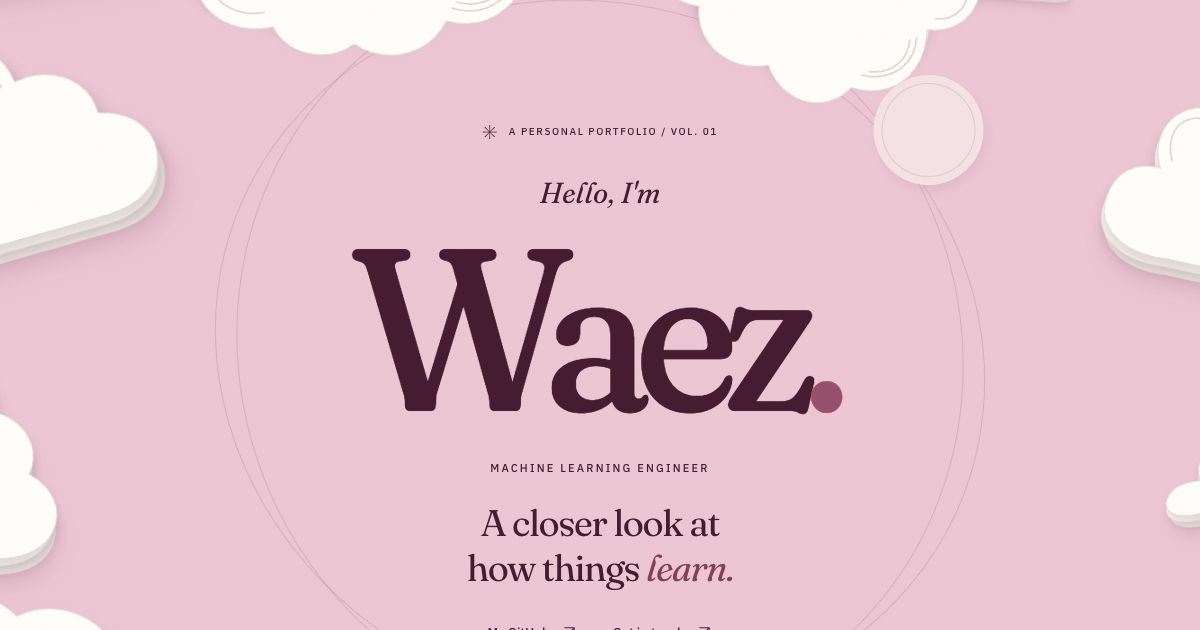
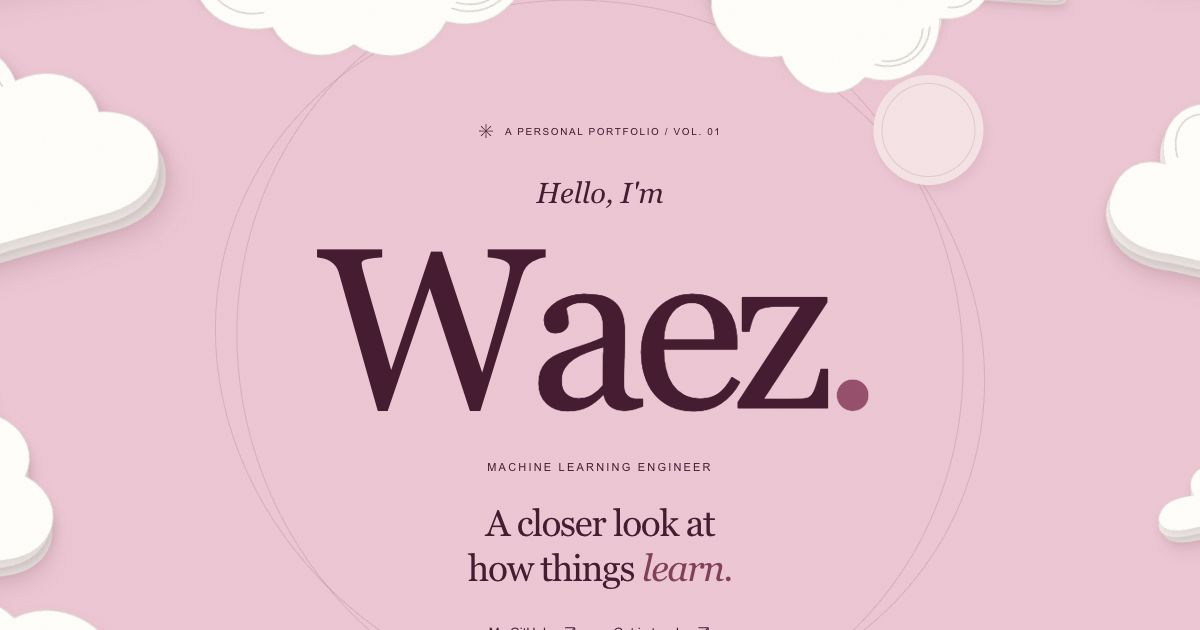
Refine portfolio controls and prepare manual Pages publishing

diff --git a/src/scripts/interactions.ts b/src/scripts/interactions.ts
@@ -22,6 +22,7 @@ document.querySelectorAll<HTMLAnchorElement>('a[href^="#"]').forEach(link => {
 });
 
 document.querySelectorAll<HTMLButtonElement>('.close-project').forEach(button => {
+  button.hidden = false;
   button.addEventListener('click', () => {
     const details = button.closest('details');
     if (!details) return;
@@ -36,9 +37,12 @@ const root = document.documentElement;
 const scenes = [...document.querySelectorAll<HTMLElement>('[data-scroll-scene]')].map(element => ({
   element,
   layers: [...element.querySelectorAll<HTMLElement>('[data-scene-layer]')],
-  rabbits: [...element.querySelectorAll<HTMLElement>('[data-garden-rabbit]')],
+  rabbits: [...element.querySelectorAll<HTMLElement>('[data-garden-rabbit]')].map(rabbit => ({
+    element: rabbit,
+    arrivalDistance: Number(rabbit.dataset.arriveDistance) || 0,
+  })),
 }));
-const motionToggle = document.querySelector<HTMLButtonElement>('[data-motion-toggle]');
+const motionToggles = [...document.querySelectorAll<HTMLButtonElement>('[data-motion-toggle]')];
 let manuallyPaused = false;
 try { manuallyPaused = localStorage.getItem('waez-motion-paused') === 'true'; } catch { /* Storage is optional. */ }
 let scheduled = false;
@@ -65,8 +69,8 @@ function updateScenes() {
       layer.style.setProperty('--scroll-turn', `${progress * side * depth * 4 * strength}deg`);
     }
     for (const rabbit of scene.rabbits) {
-      const arrival = enabled ? (1 - clamp(progress * 2.8)) * Number.parseFloat(getComputedStyle(rabbit).getPropertyValue('--arrive-distance')) : 0;
-      rabbit.style.setProperty('--rabbit-arrival', `${arrival}px`);
+      const arrival = enabled ? (1 - clamp(progress * 2.8)) * rabbit.arrivalDistance : 0;
+      rabbit.element.style.setProperty('--rabbit-arrival', `${arrival}px`);
     }
   }
   scheduled = false;
@@ -77,20 +81,23 @@ function scheduleScenes() {
 function syncMotionPreference() {
   const paused = motionQuery.matches || manuallyPaused;
   root.dataset.motion = paused ? 'paused' : 'active';
-  if (motionToggle) {
+  for (const motionToggle of motionToggles) {
     motionToggle.hidden = false;
     motionToggle.disabled = motionQuery.matches;
-    motionToggle.textContent = motionQuery.matches ? 'Reduced motion' : paused ? 'Resume motion' : 'Pause motion';
+    const label = motionQuery.matches ? 'Reduced motion' : paused ? 'Resume motion' : 'Pause motion';
+    const labelElement = motionToggle.querySelector('[data-motion-label]');
+    if (labelElement) labelElement.textContent = label;
     motionToggle.setAttribute('aria-pressed', String(paused));
-    motionToggle.setAttribute('aria-label', paused ? 'Resume decorative animations' : 'Pause decorative animations');
+    motionToggle.setAttribute('aria-label', motionQuery.matches ? 'Animations reduced by your system preference' : paused ? 'Resume decorative animations' : 'Pause decorative animations');
+    motionToggle.title = motionQuery.matches ? 'Follows your system reduced motion preference' : label;
   }
   updateScenes();
 }
-motionToggle?.addEventListener('click', () => {
+motionToggles.forEach(button => button.addEventListener('click', () => {
   manuallyPaused = !manuallyPaused;
   try { localStorage.setItem('waez-motion-paused', String(manuallyPaused)); } catch { /* Storage is optional. */ }
   syncMotionPreference();
-});
+}));
 root.classList.add('has-motion');
 syncMotionPreference();
 window.addEventListener('scroll', scheduleScenes, { passive: true });

diff --git a/src/styles/scenes.css b/src/styles/scenes.css
@@ -10,7 +10,7 @@
 .cloud-cover .hero-description { font-size: 37px; line-height: 1.2; }
 .cloud-cover .hero-links { justify-content: center; gap: 35px; margin-top: 22px; }
 .cloud-cover .hero-bottom { width: 100%; margin-top: auto; padding-top: 95px; padding-bottom: 40px; z-index: 20; }
-.cloud-cover .hero-bottom p { background: #fffaf1b0; padding: 3px 7px; }
+.cloud-cover .hero-bottom p { background: transparent; padding: 0; }
 .cloud-field { position: absolute; z-index: 0; top: -104px; right: 0; bottom: -25px; left: 0; pointer-events: none; }
 .sky-cloud { position: absolute; left: var(--cloud-x); top: var(--cloud-y); width: var(--cloud-width); transform: translate3d(var(--scroll-x, 0px), var(--scroll-y, 0px), 0) rotate(calc(var(--cloud-tilt) + var(--scroll-turn, 0deg))); }
 .sky-cloud .paper-cloud { overflow: visible; }
@@ -62,6 +62,13 @@
 .motion-toggle { display: inline-flex; align-items: center; justify-content: center; padding: 10px 13px; min-height: 44px; border: 1px solid #b183963d; background: transparent; border-radius: 2px; font-size: 10px; cursor: pointer; }
 .motion-toggle:hover { background: #fff9f0; }
 .motion-toggle[hidden] { display: none; }
+.header-actions { display: flex; align-items: center; gap: 32px; }
+.header-motion-slot { display: grid; place-items: center; width: 44px; height: 44px; flex-shrink: 0; }
+.header-motion-toggle { width: 44px; height: 44px; padding: 0; border-radius: 50%; }
+.motion-icon-paused { display: none; }
+.motion-toggle[aria-pressed='true'] .motion-icon-paused { display: block; }
+.motion-toggle[aria-pressed='true'] .motion-icon-running { display: none; }
+.motion-toggle:disabled { cursor: default; opacity: .65; }
 html[data-motion='paused'] .cloud-float, html[data-motion='paused'] .ambient-illustration, html[data-motion='paused'] .rabbit-hop, html[data-motion='paused'] .rabbit-breathe, html[data-motion='paused'] .rabbit-ear, html[data-motion='paused'] .rabbit-blink, html[data-motion='paused'] .flower-sway { animation-play-state: paused !important; }
 html[data-motion='paused'] [data-scroll-reveal] { translate: none; transition: none; }
 
@@ -85,6 +92,9 @@ html[data-motion='paused'] [data-scroll-reveal] { translate: none; transition: n
 }
 
 @media (max-width: 760px) {
+  .header-actions { gap: 10px; }
+  .header-actions nav { gap: 16px; }
+  .header-actions nav a { font-size: 10px; }
   .hero.cloud-cover { min-height: 925px; padding-top: 188px; }
   .cloud-field { top: -86px; bottom: -20px; }
   .sky-cloud { left: var(--mobile-x); top: var(--mobile-y); width: var(--mobile-width); }
@@ -93,7 +103,7 @@ html[data-motion='paused'] [data-scroll-reveal] { translate: none; transition: n
   .cloud-cover .tiny-cross { font-size: 17px; }
   .cloud-cover .hero-hello { font-size: 23px; }
   .cloud-cover h1 { font-size: clamp(123px, 31vw, 175px); }
-  .cloud-cover .hero-role { font-size: 8px; letter-spacing: .17em; margin-block: 12px 24px; }
+  .cloud-cover .hero-role { font-size: 10px; letter-spacing: .15em; margin-block: 12px 24px; }
   .cloud-cover .hero-description { font-size: 29px; line-height: 1.22; max-width: 280px; margin-inline: auto; }
   .cloud-cover .hero-description br { display: block; }
   .cloud-cover .hero-links { margin-top: 23px; gap: 26px; }

diff --git a/src/styles/global.css b/src/styles/global.css
@@ -23,6 +23,8 @@
 }
 
 *, *::before, *::after { box-sizing: border-box; }
+[hidden] { display: none !important; }
+.sr-only { position: absolute; width: 1px; height: 1px; margin: -1px; padding: 0; overflow: hidden; clip-path: inset(50%); white-space: nowrap; border: 0; }
 html { scroll-behavior: smooth; scroll-padding-top: 36px; }
 body { margin: 0; color: var(--ink); background: var(--pink); font-family: var(--sans); font-size: 16px; line-height: 1.6; -webkit-font-smoothing: antialiased; }
 body, h1, h2, h3, p, figure { margin: 0; }
@@ -38,7 +40,7 @@ img { display: block; max-width: 100%; height: auto; }
 em { font-family: var(--serif); font-weight: 400; }
 ul, ol { margin: 0; padding: 0; }
 .page-shell { max-width: 1600px; margin-inline: auto; overflow: clip; }
-.page-grain { position: fixed; inset: 0; z-index: 10; pointer-events: none; opacity: .24; background: url('/paper-grain.svg'); mix-blend-mode: multiply; }
+.page-grain { position: fixed; inset: 0; z-index: 10; pointer-events: none; opacity: .24; background: url('../assets/paper-grain.svg'); mix-blend-mode: multiply; }
 .skip-link { position: fixed; z-index: 30; top: 15px; left: 15px; padding: 12px 20px; background: var(--paper); transform: translateY(-160%); }
 .skip-link:focus { transform: translateY(0); }
 .eyebrow { font-family: var(--sans); font-size: 10px; font-weight: 500; line-height: 1.5; letter-spacing: .16em; text-transform: uppercase; }
@@ -155,7 +157,7 @@ ul, ol { margin: 0; padding: 0; }
 .project-details summary:hover .disclosure-symbol { background: var(--paper); }
 .case-study { padding: 36px clamp(22px, 7vw, 100px) 40px; margin-bottom: 24px; background: #fbe5e9; border: 1px solid #fff7; }
 .case-study-heading { display: flex; align-items: center; justify-content: space-between; gap: 20px; padding-bottom: 30px; border-bottom: 1px solid var(--line); margin-bottom: 40px; }
-.permalink { font-size: 11px; }
+.permalink { display: inline-flex; align-items: center; gap: 5px; min-height: 44px; font-size: 11px; }
 .prose { max-width: 720px; margin-inline: auto; overflow-wrap: break-word; }
 .prose h2 { font-family: var(--serif); font-size: 32px; font-weight: 450; letter-spacing: -.035em; line-height: 1.2; margin: 38px 0 17px; }
 .prose h2:first-child { margin-top: 0; }

diff --git a/src/pages/sitemap.xml.ts b/src/pages/sitemap.xml.ts
@@ -1,0 +1,7 @@
+import type { APIRoute } from 'astro';
+import { siteUrl } from '../lib/site';
+
+export const GET: APIRoute = () => new Response(
+  `<?xml version="1.0" encoding="UTF-8"?>\n<urlset xmlns="http://www.sitemaps.org/schemas/sitemap/0.9"><url><loc>${siteUrl.href}</loc></url></urlset>\n`,
+  { headers: { 'Content-Type': 'application/xml; charset=utf-8' } },
+);

diff --git a/src/pages/robots.txt.ts b/src/pages/robots.txt.ts
@@ -1,0 +1,7 @@
+import type { APIRoute } from 'astro';
+import { siteUrl } from '../lib/site';
+
+export const GET: APIRoute = () => new Response(
+  `User-agent: *\nAllow: /\n\nSitemap: ${new URL('sitemap.xml', siteUrl).href}\n`,
+  { headers: { 'Content-Type': 'text/plain; charset=utf-8' } },
+);

diff --git a/src/lib/site.ts b/src/lib/site.ts
@@ -1,0 +1,2 @@
+export const basePath = import.meta.env.BASE_URL;
+export const siteUrl = new URL(basePath, import.meta.env.SITE!);

diff --git a/HOSTING.md b/HOSTING.md
@@ -1,12 +1,14 @@
 # Публикация портфолио
 
-Публикация сейчас отложена: дизайн и анимации проверяются локально на http://127.0.0.1:4321/. Инструкции ниже предназначены для будущей публикации.
+Публикация требует одобрения владельцем готового предпросмотра. Новый вариант проверяется локально на http://127.0.0.1:4322/. Старая версия сохранена отдельно и доступна на порту 4321. Инструкции ниже предназначены для будущей публикации после одобрения.
 
 ## GitHub Pages
 
-Репозиторий: `onewaez/onewaez.github.io`. Адрес сайта: https://onewaez.github.io/.
+Для новой версии подготовлен отдельный проект `waez-portfolio-v2`. После создания одноимённого GitHub-репозитория его Pages-адрес будет https://onewaez.github.io/waez-portfolio-v2/.
 
-В GitHub откройте **Settings → Pages → Build and deployment → Source → GitHub Actions**. Workflow из `.github/workflows/deploy.yml` устанавливает зависимости, проверяет проект, собирает сайт и публикует папку `dist/` после каждого push в `main`.
+После одобрения в GitHub откройте **Settings → Pages → Build and deployment → Source → GitHub Actions**. Workflow из `.github/workflows/deploy.yml` запускается только вручную через **Actions → Deploy portfolio to GitHub Pages → Run workflow**. Обычный push не публикует сайт.
+
+Workflow устанавливает зависимости, проверяет проект и собирает сайт с `BASE_PATH=/waez-portfolio-v2/`. Ссылки, шрифты, favicon, canonical и sitemap учитывают этот префикс.
 
 Состояние публикации видно на вкладке **Actions**. Если проверка или сборка завершится ошибкой, новая версия не публикуется: исправьте ошибку из лога и отправьте следующий commit.
 
@@ -39,10 +41,8 @@ python3 -m http.server 8080 --directory dist --bind 127.0.0.1
 
 ## Другой домен
 
-Если меняете основной адрес сайта, обновите `site` в `astro.config.mjs`, canonical и Open Graph URL в `src/pages/index.astro`, адрес в `public/sitemap.xml` и `public/robots.txt`. Пересоберите сайт. Все файлы сборки рассчитаны на размещение в корне домена.
-
-Для размещения в подпапке потребуется задать `base` в конфигурации Astro и добавить этот префикс к путям публичных ресурсов. Сборка по умолчанию предназначена для корня домена.
+Если меняете домен, обновите `site` в `astro.config.mjs`. Для размещения в подпапке передайте `BASE_PATH=/имя-папки/` при сборке. Canonical, Open Graph, robots.txt и sitemap.xml создаются автоматически. Сборка без `BASE_PATH` предназначена для корня домена.
 
 ## Новый проект
 
-Добавьте Markdown-файл в `src/content/projects/`, задайте следующий уникальный `order`, добавьте изображения в `public/projects/` и отправьте изменения в GitHub. Порядок: старые проекты → новый проект → About → Contact. Формат описан в README.md.
+Добавьте Markdown-файл в `src/content/projects/`, задайте следующий уникальный `order` и добавьте изображения в `public/projects/`. После проверки и одобрения запустите ручную публикацию. Порядок: старые проекты → новый проект → About → Contact. Формат описан в README.md.

diff --git a/README.md b/README.md
@@ -2,7 +2,9 @@
 
 A one-page, English-language portfolio with a pink paper background, a layered paper sky, animated rabbits, and inline project case studies. Built with Astro. All fonts and visual assets are self-hosted.
 
-**Current preview:** http://127.0.0.1:4321/. Deployment is paused while the design is being developed. The intended public address for a future release is https://onewaez.github.io/.
+**Refined preview:** http://127.0.0.1:4322/. This is a separate Git repository. The original portfolio remains in the parent directory, with its preview on port 4321.
+
+Deployment is pending the owner's approval of the preview. The prepared GitHub Pages project path is `/waez-portfolio-v2/`; the workflow can only be started manually.
 
 ## Development
 
@@ -53,7 +55,7 @@ Write the case study below the frontmatter. Describe the problem, your decisions
 - Optional `caption` describes the figure. Optional `demo` adds a link to an externally hosted demo.
 - All case studies stay in the main document, using native `<details>`. Links to project anchors open the corresponding case study when JavaScript is available. With JavaScript off, the visitor can still expand any project manually.
 
-Push to `main` to publish. See [HOSTING.md](HOSTING.md) for GitHub Pages and other hosts.
+Source pushes do not publish the site. After the owner approves the preview, use the manual Pages workflow. See [HOSTING.md](HOSTING.md) for GitHub Pages and other hosts.
 
 ## Identity and styling
 
@@ -70,7 +72,7 @@ The paper texture and clouds are original SVG assets. Fonts use the SIL Open Fon
 
 Clouds float at different depths and part as the page scrolls, with reduced travel on smaller screens. The closing garden has rabbits that breathe, blink, twitch their ears, and make small hops, plus swaying paper flowers. Animations pause when their scene is off screen. Text remains visible throughout scroll transitions.
 
-The footer's **Pause motion** control stops decorative movement and remembers the choice locally. All decorative animation also respects `prefers-reduced-motion`. Keyboard navigation, native disclosures, a skip link, visible focus, and print styles are included.
+The header's pause icon and the footer's **Pause motion** control stay synchronized and remember the choice locally. All decorative animation also respects `prefers-reduced-motion`. Keyboard navigation, native disclosures, a skip link, visible focus, and print styles are included. JavaScript-only controls remain hidden when scripts are unavailable; the native project disclosure still works.
 
 ## Checks
 
